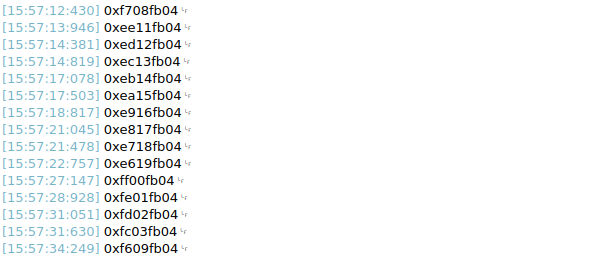
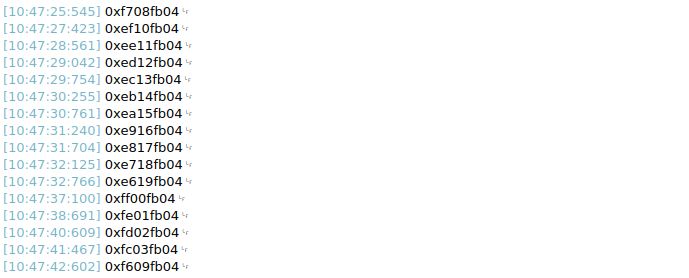
Adição do exemplos simples envolvendo a serial no README. Atualização das imagens do retorno da serial.

Changed region(s): [[0.0, 0.0, 0.3267, 0.9884]]

diff --git a/README.md b/README.md
@@ -9,7 +9,7 @@ Para testar essa API você vai precisar de um sensor de IR. Durante o desenvolvi
   <img src="images/shield.png" width="500" title="hover text">
 </p>
 
-Essa API foi desenvolvida e testada para o [Kit SMT32 Nucleo-G474RE](https://www.st.com/en/microcontrollers-microprocessors/stm32g474re.html#overview) você pode conferir todas as características desse kit no link disponibilizado e os pinos na imagem imagem:
+Essa API foi desenvolvida e testada para o [Kit SMT32 Nucleo-G474RE](https://www.st.com/en/microcontrollers-microprocessors/stm32g474re.html#overview) você pode conferir todas as características desse kit no link disponibilizado e os pinos na imagem abaixo:
 
 <p align="center">
   <img src="images/stm32.png" width="500" title="hover text">
@@ -199,5 +199,59 @@ Esse arquivo auxiliar da biblioteca define os valores dos comandos mapeados para
 #define LG_COMMAND_MUTE 0xf609fb04
 ```
 
+## Exemplos
 
+### Simples
+
+Uma forma simples de testar essa API no seu Nucleo-G474RE, utilizando o STCubeMX e a SW4ST32 IDE é através da transmissão do comando recebido via serial (no examplo, usando a USART1) para ser controlado por um aplicativo de comunicação serial qualquer. Para testar esse código, basta adicionar o seguinte comando dentro do loop da main:
+
+```c
+My_IR_Listening();
+		
+if (My_IR_ReceivedNewCommand) {
+
+	My_IR_GetIrCommandText(message);
+	UART_TransmitMessage(message);
+	My_IR_ReceivedNewCommand = 0;
+}
+```
+
+Depois disso, você precisa apenas declarar de definir a função UART_TransmitMessage, como mostrado abaixo:
+
+```c
+static void UART_TransmitMessage(char *);
+
+void UART_TransmitMessage(char * message) {
+	
+	char * newLineChar = "\n";
+	strcat(message, newLineChar);
+	HAL_UART_Transmit(&huart1, (uint8_t *) message, strlen(message), 1000);
+}
+```
+Assim, ao pressionar o seguintes botões no controle remoto e na ordem descrita abaixo, você terá como retorno no seu monitor de serial as seguintes mensagens:
+
+- Sequência de Botões: ON/OFF, Botão 0, Botão 1, Botão 2, Botão 3, Botão 4, Botão 5, Botão 6, Botão 7, Botão 8, Botão 9, Channel +, Channel -, Volume +, Volume -, Mute
+
+<p align="center">
+  <img src="images/serial_text.png" width="500" title="hover text">
+</p>
+
+Outro teste simples seria trocar a função My_IR_GetIrCommandText por My_IR_GetIrCommandInHex, recebendo assim como retorno na serial o código em hexadecimal dos comandos:
+
+```c
+My_IR_Listening();
+		
+if (My_IR_ReceivedNewCommand) {
+
+	My_IR_GetIrCommandInHex(message);
+	UART_TransmitMessage(message);
+	My_IR_ReceivedNewCommand = 0;
+}
+```
+
+<p align="center">
+  <img src="images/serial_hex.png" width="500" title="hover text">
+</p>
+
+### Aplicação Complexa
 
